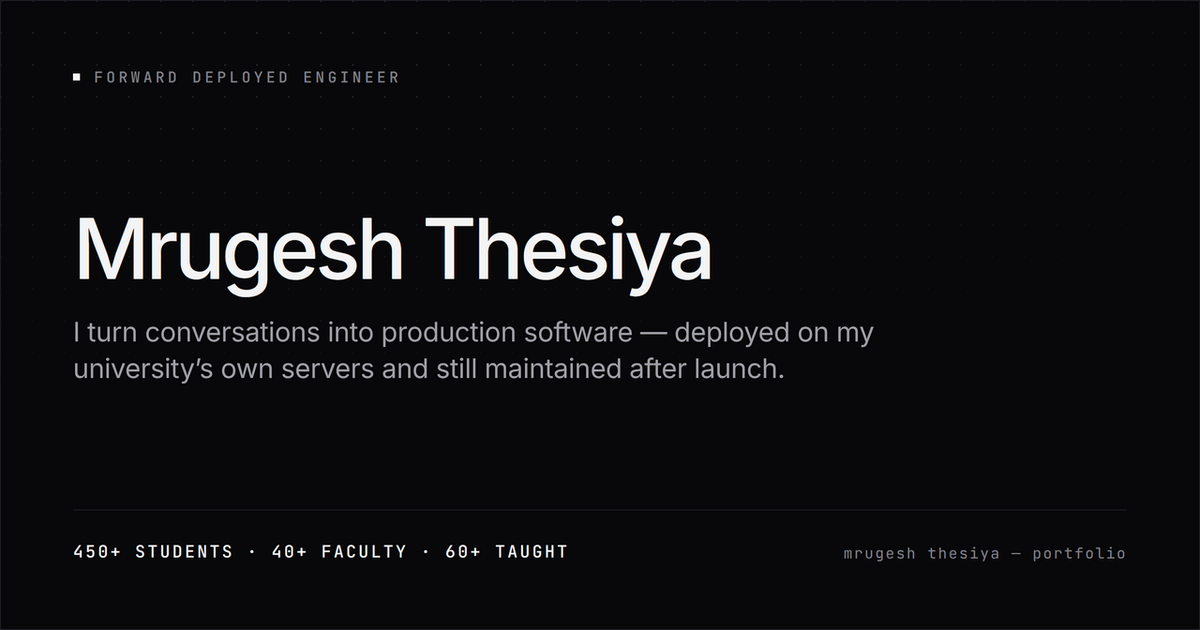
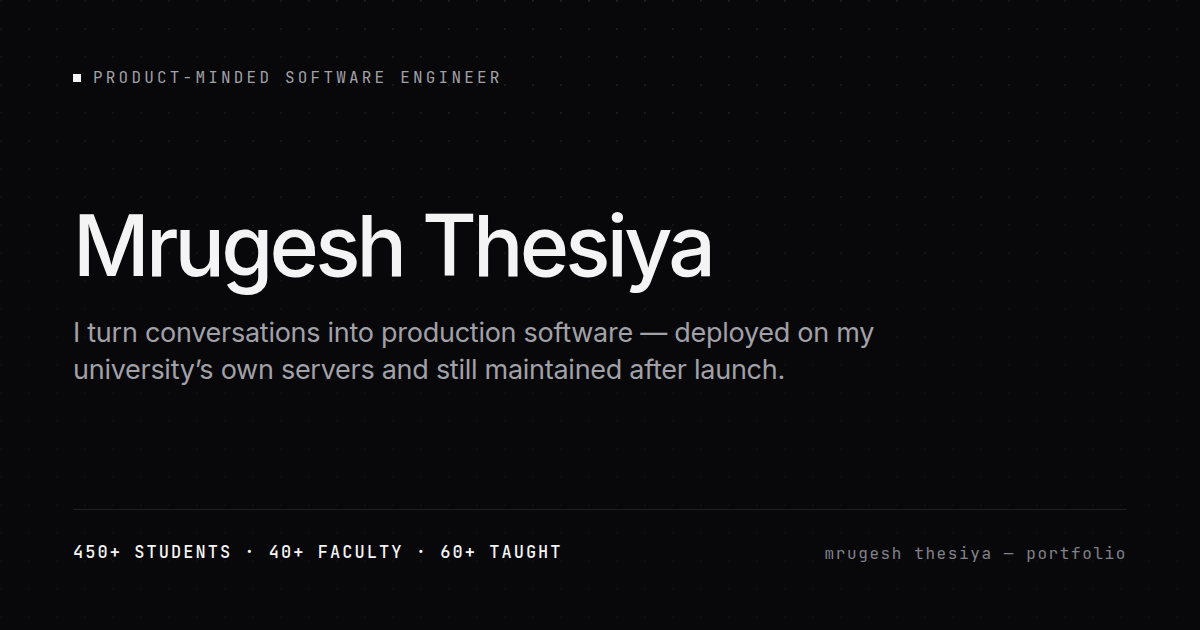
fix: correct copy discrepancies and regenerate social preview
Drop the unsupported "one in production" claim from the work heading,
match the Vajra and committee wording to the resume, and pluralize the
footer label correctly. Regenerate og.png so its title matches the site
instead of the old "Forward Deployed Engineer".

diff --git a/src/data/site.ts b/src/data/site.ts
@@ -68,7 +68,7 @@ export const systems: readonly System[] = [
     summary:
       'An open-source sandbox that confines AI CLI agents to a single project, so they can work on code without reaching secrets elsewhere on the machine.',
     highlights: [
-      'Confines Claude Code, Codex and OpenCode to one project directory',
+      'Confines AI CLI agents (Claude Code, Codex, OpenCode) to a single project',
       'Native core written in Rust and exposed to Node through napi-rs, enforcing filesystem confinement with Landlock on Linux and Seatbelt on macOS',
       'Hides .env files from file listings and automatically redacts secret values in agent output',
       'CLI for multi-agent task execution with developer, master and worker roles and per-file permissions, across five packages in one monorepo',
@@ -112,7 +112,7 @@ export const wdc: Role = {
   period: 'July 2024 — Present',
   place: 'Gandhinagar, India',
   summary:
-    'I lead a team of student developers building production software for the university under faculty mentorship, and I teach the committee’s weekly engineering session.',
+    'I lead a team of student developers building production software for the university under faculty mentorship, and I teach a weekly engineering session.',
   responsibilities: [
     'Lead a team of student developers building production software for the university under faculty mentorship',
     'Teach a weekly engineering session to 60+ students on AI coding agents and context engineering, learning with AI, and backend architecture, authentication, databases and infrastructure',

diff --git a/src/App.test.tsx b/src/App.test.tsx
@@ -16,7 +16,7 @@ describe('single-identity portfolio', () => {
   it('renders one page with work, background, about, skills and a single contact section', () => {
     const { container } = render(<App />)
 
-    expect(screen.getByRole('heading', { name: 'Three projects, one in production' })).toBeInTheDocument()
+    expect(screen.getByRole('heading', { name: 'Three projects' })).toBeInTheDocument()
     expect(screen.getByRole('heading', { name: 'PDEU Management Portal' })).toBeInTheDocument()
     expect(
       screen.getByRole('heading', { name: 'Vajra — Sandbox for AI Coding Agents' }),

diff --git a/src/components/Work.tsx b/src/components/Work.tsx
@@ -9,11 +9,11 @@ export function Work() {
     <Section
       id="work"
       eyebrow="Work"
-      title="Three projects, one in production"
+      title="Three projects"
       lede={
         <>
-          The PDEU portal replaced a manual process and is still mine to support, extend and deploy.
-          Vajra and the open elective system are the other two projects.
+          The PDEU portal is in production and still mine to support, extend and deploy. Vajra and
+          the open elective system are the other two.
         </>
       }
     >

diff --git a/src/components/Footer.tsx b/src/components/Footer.tsx
@@ -11,7 +11,7 @@ export function Footer() {
       <Container>
         <div className="grid gap-10 sm:grid-cols-[1.4fr_1fr] sm:items-end">
           <div>
-            <p className="eyebrow">Resumes</p>
+            <p className="eyebrow">Resume</p>
             <a
               href={resume.file}
               download
